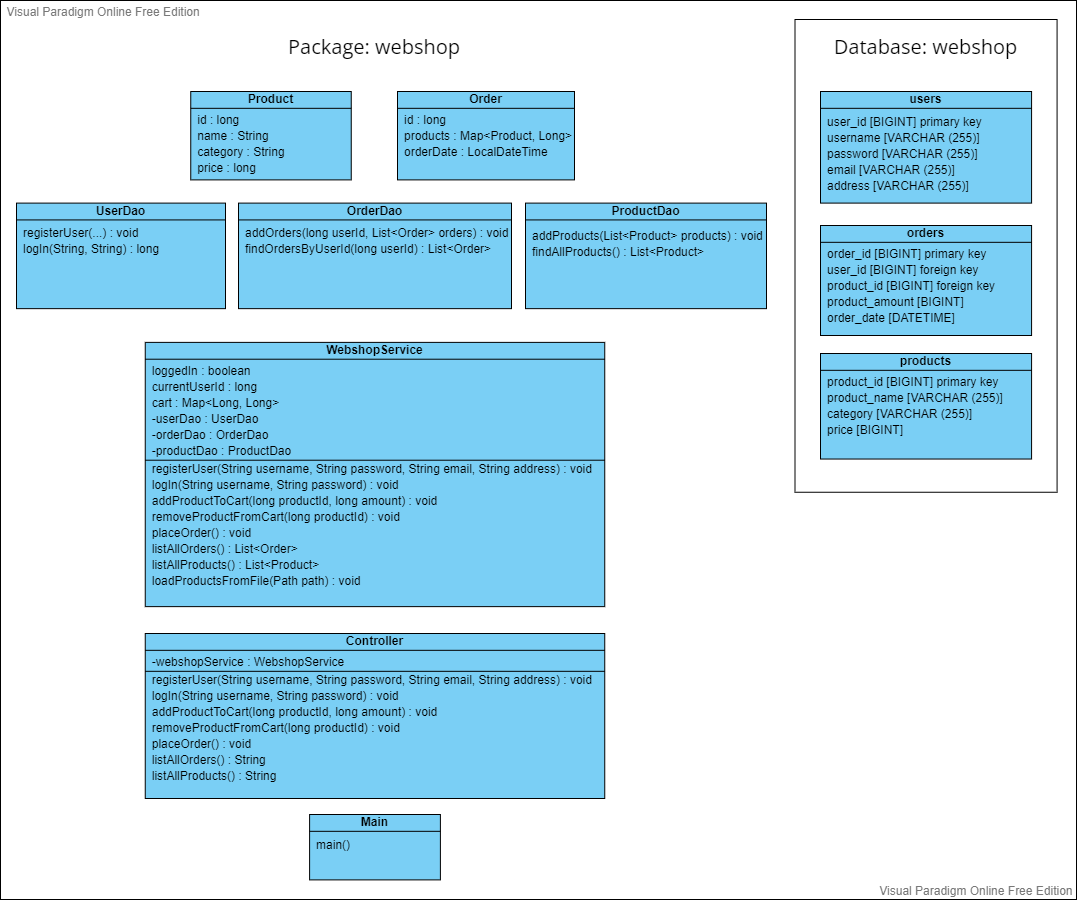
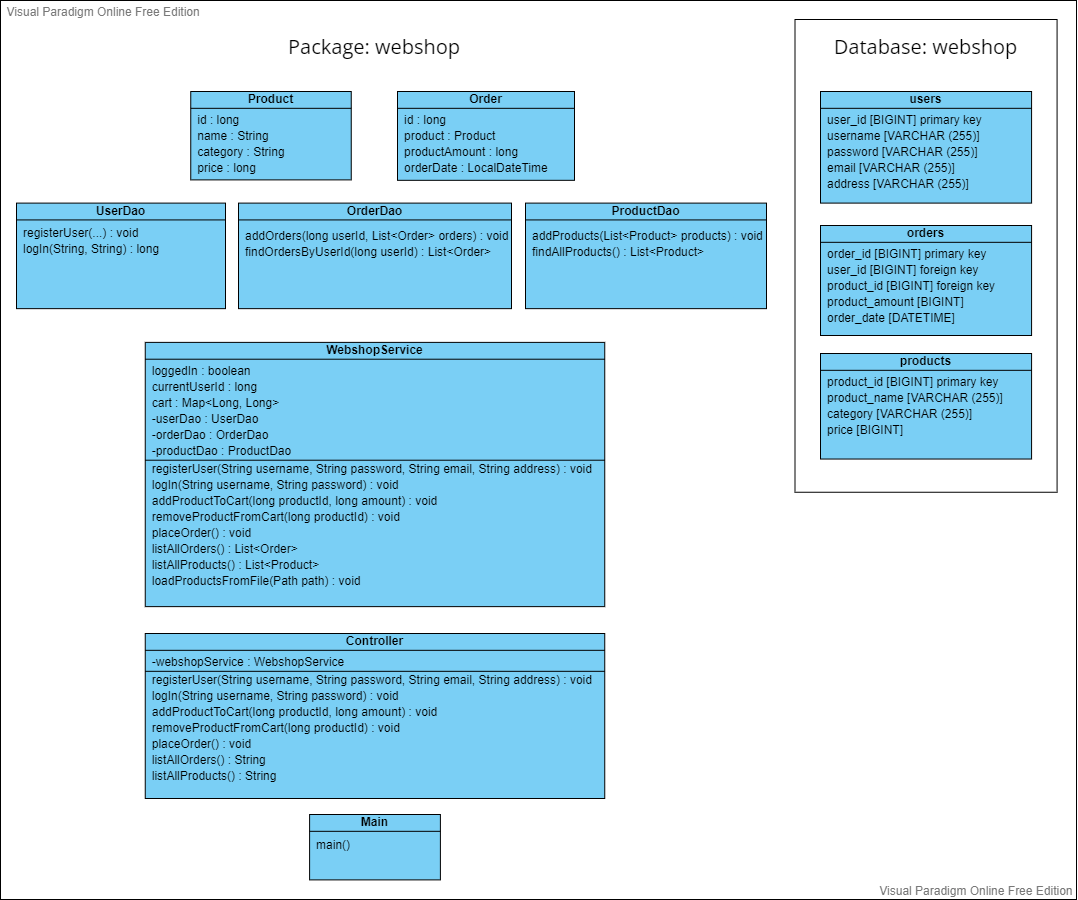
Added Order, Product, OrderTest, ProductTest, updated webshop.png

Changed region(s): [[0.7653, 0.1244, 0.9184, 0.2178], [0.3673, 0.1244, 0.5204, 0.2178], [0.2143, 0.2489, 0.4592, 0.28]]

diff --git a/src/test/java/webshop/OrderTest.java b/src/test/java/webshop/OrderTest.java
@@ -1,0 +1,22 @@
+package webshop;
+
+import org.junit.jupiter.api.Test;
+
+import java.time.LocalDateTime;
+
+import static org.junit.jupiter.api.Assertions.*;
+
+class OrderTest {
+
+    @Test
+    void testCreate() {
+        Order order = new Order(2, new Product(1, "Milk", "Groceries", 300), 3, LocalDateTime.parse("2022-04-01T10:05"));
+        assertEquals(2, order.getId());
+        assertEquals(1, order.getProduct().getId());
+        assertEquals("Milk", order.getProduct().getName());
+        assertEquals("Groceries", order.getProduct().getCategory());
+        assertEquals(300, order.getProduct().getPrice());
+        assertEquals(3, order.getAmount());
+        assertEquals(LocalDateTime.parse("2022-04-01T10:05"), order.getOrderDate());
+    }
+}

diff --git a/src/main/java/webshop/Order.java b/src/main/java/webshop/Order.java
@@ -1,2 +1,34 @@
+package webshop;
+
+import java.time.LocalDateTime;
+
 public class Order {
+
+    private final long id;
+    private final Product product;
+    private final long amount;
+    private final LocalDateTime orderDate;
+
+    public Order(long id, Product product, long amount, LocalDateTime orderDate) {
+        this.id = id;
+        this.product = product;
+        this.amount = amount;
+        this.orderDate = orderDate;
+    }
+
+    public long getId() {
+        return id;
+    }
+
+    public Product getProduct() {
+        return product;
+    }
+
+    public long getAmount() {
+        return amount;
+    }
+
+    public LocalDateTime getOrderDate() {
+        return orderDate;
+    }
 }

diff --git a/src/main/java/webshop/Product.java b/src/main/java/webshop/Product.java
@@ -1,2 +1,32 @@
+package webshop;
+
 public class Product {
+
+    private final long id;
+    private final String name;
+    private final String category;
+    private final long price;
+
+    public Product(long id, String name, String category, long price) {
+        this.id = id;
+        this.name = name;
+        this.category = category;
+        this.price = price;
+    }
+
+    public long getId() {
+        return id;
+    }
+
+    public String getName() {
+        return name;
+    }
+
+    public String getCategory() {
+        return category;
+    }
+
+    public long getPrice() {
+        return price;
+    }
 }

diff --git a/src/test/java/webshop/ProductTest.java b/src/test/java/webshop/ProductTest.java
@@ -1,0 +1,17 @@
+package webshop;
+
+import org.junit.jupiter.api.Test;
+
+import static org.junit.jupiter.api.Assertions.*;
+
+class ProductTest {
+
+    @Test
+    void testCreate() {
+        Product product = new Product(1, "Milk", "Groceries", 300);
+        assertEquals(1, product.getId());
+        assertEquals("Milk", product.getName());
+        assertEquals("Groceries", product.getCategory());
+        assertEquals(300, product.getPrice());
+    }
+}
